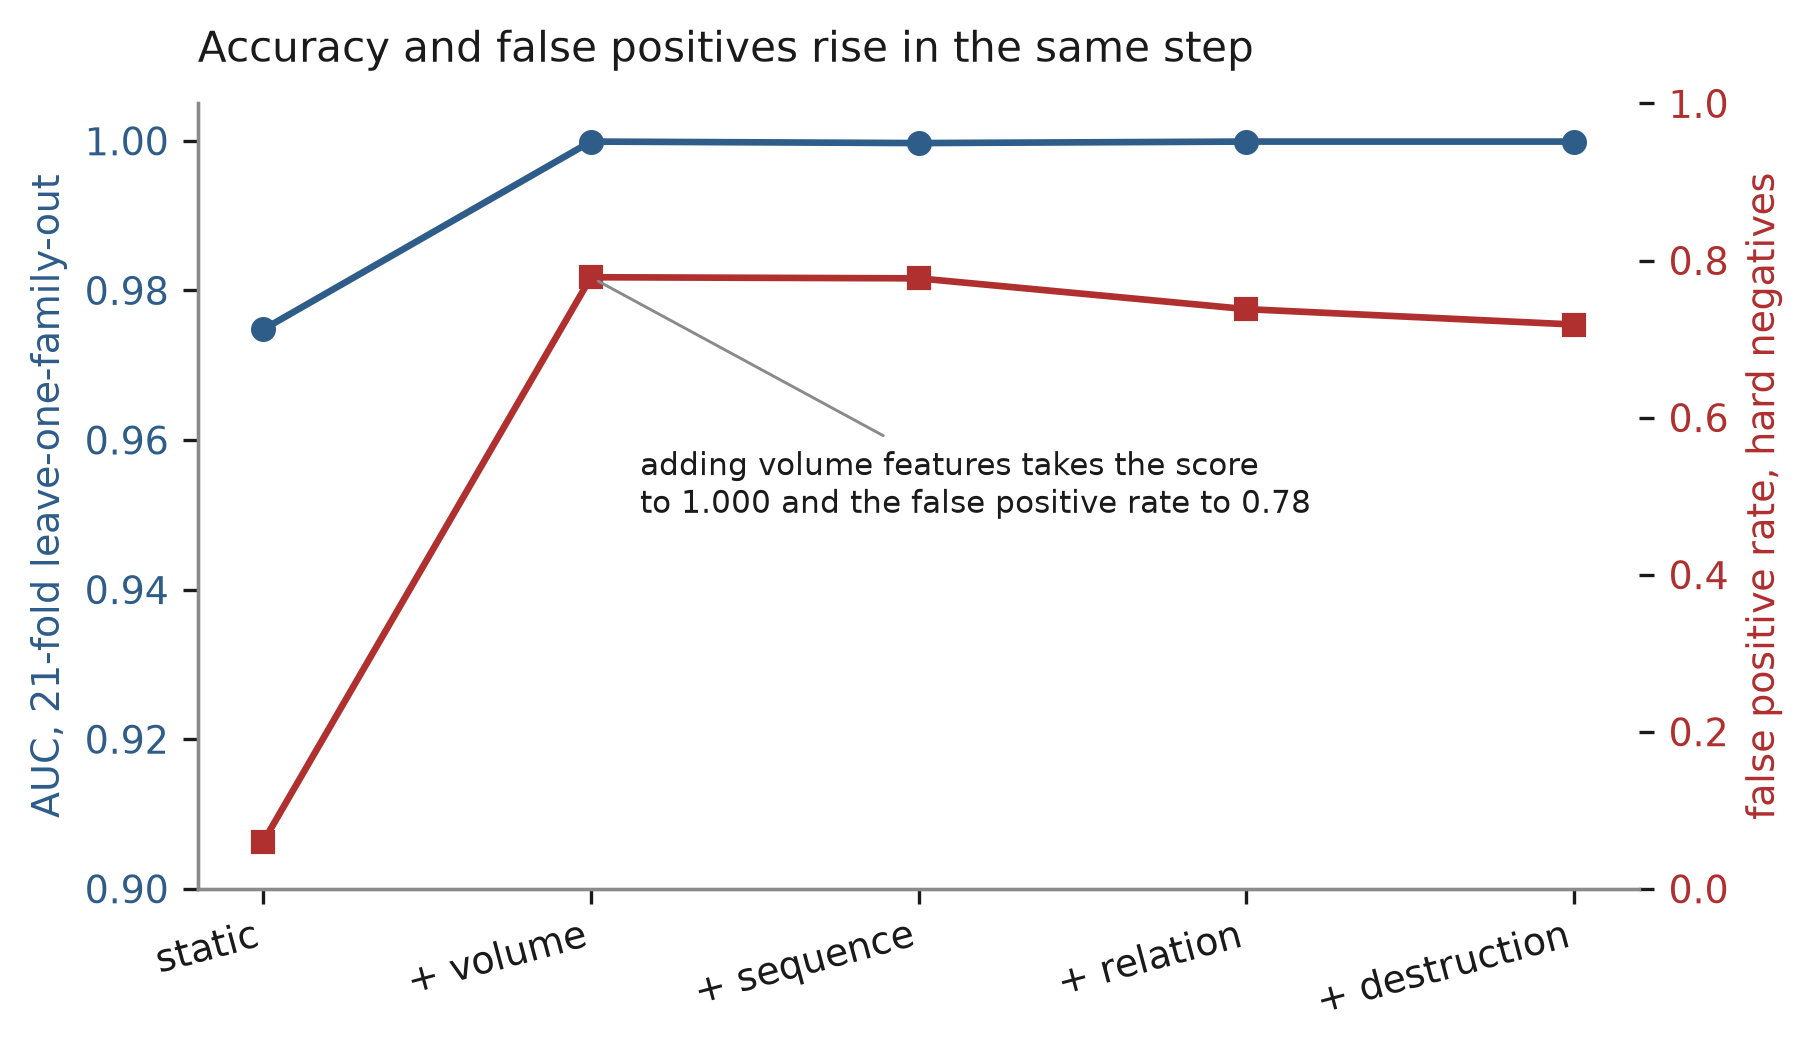
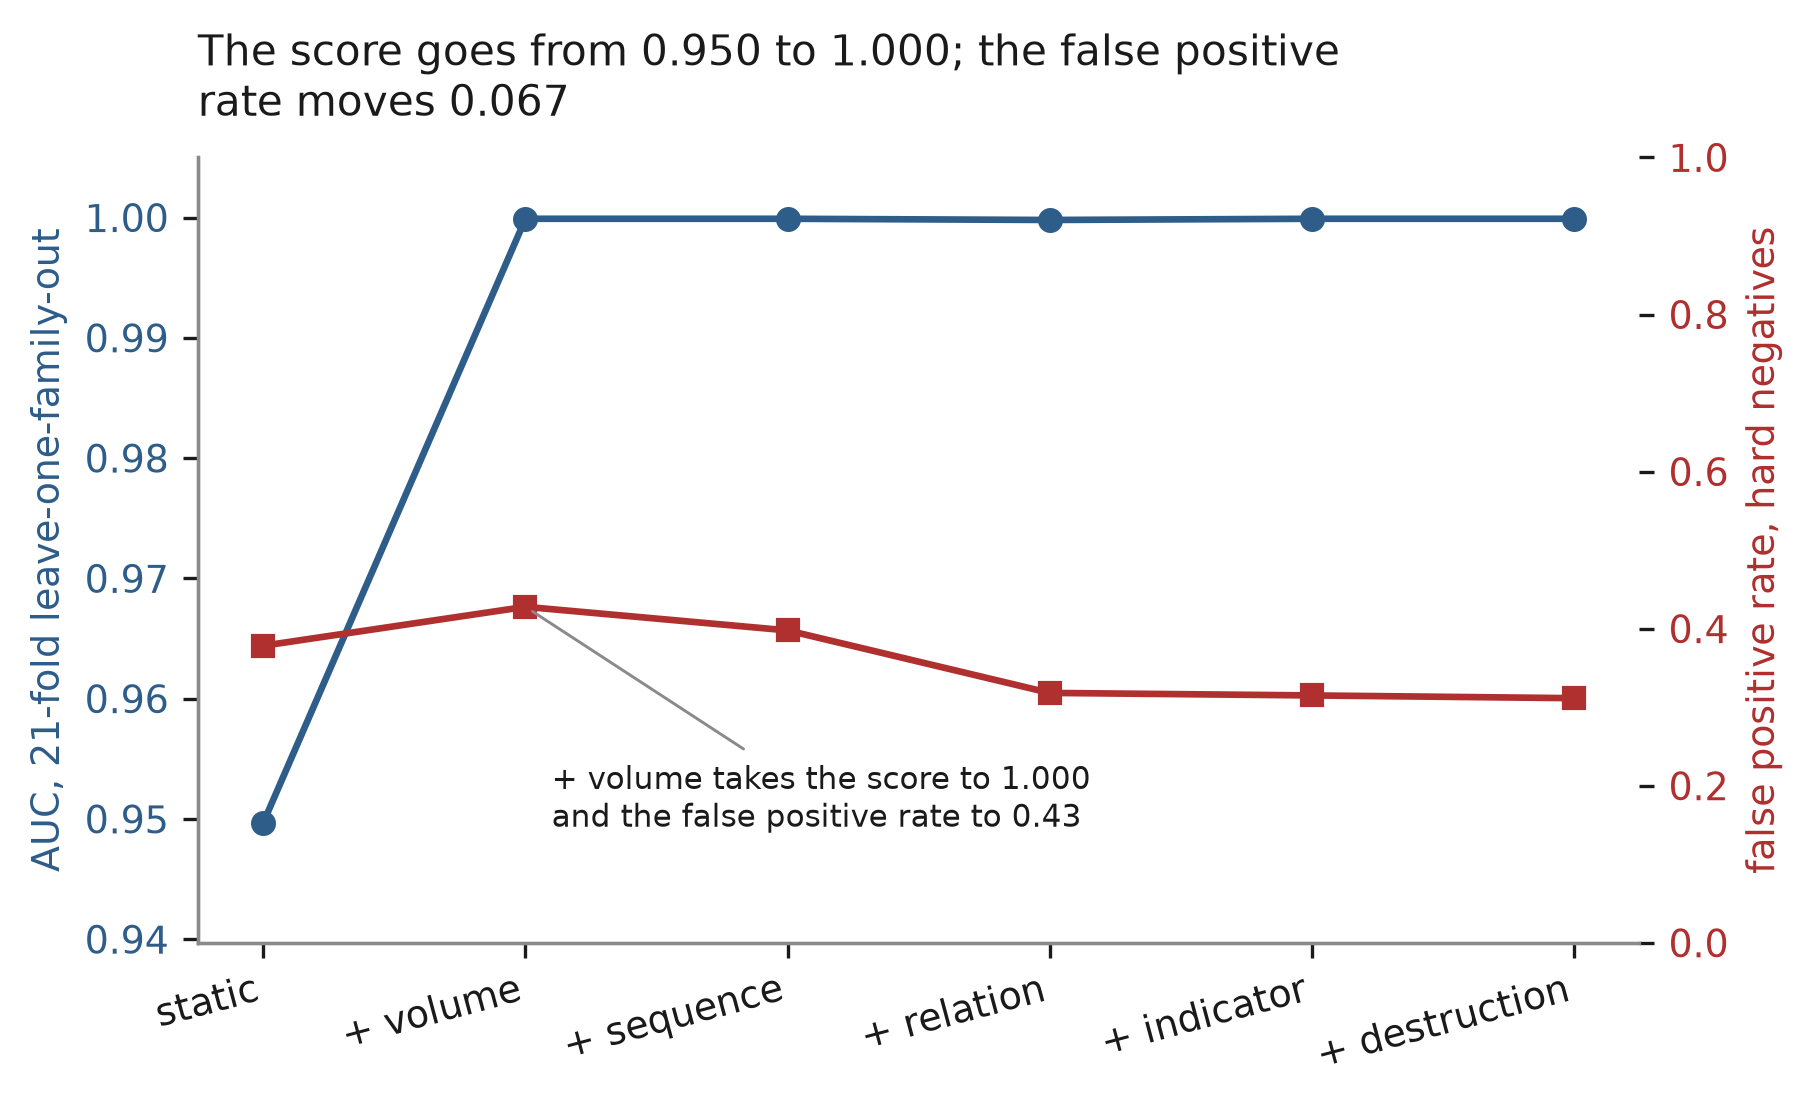
.

diff --git a/hardneg/build_shape_grid.py b/hardneg/build_shape_grid.py
@@ -107,7 +107,8 @@ def plan_main():
         for t in TIMINGS:
             for rep in range(5):
                 jobs.append(dict(tool="c", shape=sh, limit=200, order=0,
-                                 timing=t, effects=0, fake=0, rep=rep))
+                                 timing=t, effects=0, fake=0, rep=rep,
+                                 group="timing"))
 
     # Import table: the same subset with a ransomware-shaped import list
     for sh in SUBSET:
@@ -136,7 +137,10 @@ def name_of(j):
     parts = [f"x{j['tool']}", letter, f"l{j['limit']}"]
     if j["order"]:
         parts.append("rand")
-    if j["timing"]:
+    # The timing group carries TIMING=0 as its own baseline, and without a
+    # marker those twenty take the same name as the main grid and overwrite
+    # it -- 920 rows in the manifest, 900 files on disk.
+    if j.get("group") == "timing":
         parts.append(f"t{j['timing']}")
     if j["effects"]:
         parts.append(f"e{j['effects']}")
@@ -149,7 +153,8 @@ def name_of(j):
 def build_c(j, out, src):
     flags = [f"-DSHAPE={j['shape']}", f"-DLIMIT={j['limit']}",
              f"-DORDER={j['order']}", f"-DTIMING={j['timing']}",
-             f"-DEFFECTS={j['effects']}", f"-DFAKE_IMPORTS={j['fake']}"]
+             f"-DEFFECTS={j['effects']}", f"-DFAKE_IMPORTS={j['fake']}",
+             f"-DBUILD_REP={j['rep']}"]
     # The fake-import build references networking, shell and service APIs
     # that live outside the default link set, so those libraries have to be
     # named. They are only linked for that build: adding them everywhere
@@ -167,7 +172,7 @@ def build_go(j, out, srcdir):
     ld = " ".join(f"-X main.{k}={v}" for k, v in
                   (("shape", j["shape"]), ("limit", j["limit"]),
                    ("order", j["order"]), ("timing", j["timing"]),
-                   ("effects", j["effects"])))
+                   ("effects", j["effects"]), ("rep", j["rep"])))
     env = dict(os.environ, GOOS="windows", GOARCH="amd64", CGO_ENABLED="0")
     return subprocess.run(["go", "build", "-ldflags", ld, "-o", out, "."],
                           cwd=srcdir, capture_output=True, text=True, env=env)
@@ -177,7 +182,7 @@ def build_rust(j, out, srcdir):
     env = dict(os.environ,
                HN_SHAPE=str(j["shape"]), HN_LIMIT=str(j["limit"]),
                HN_ORDER=str(j["order"]), HN_TIMING=str(j["timing"]),
-               HN_EFFECTS=str(j["effects"]))
+               HN_EFFECTS=str(j["effects"]), HN_REP=str(j["rep"]))
     r = subprocess.run(["cargo", "build", "--release",
                         "--target", "x86_64-pc-windows-gnu"],
                        cwd=srcdir, capture_output=True, text=True, env=env)

diff --git a/hardneg/hardneg_matrix.c b/hardneg/hardneg_matrix.c
@@ -74,6 +74,14 @@
 #ifndef EFFECTS
 #define EFFECTS 0 /* bitmask: 1 note, 2 wallpaper, 4 shadow, 8 recovery, 16 service */
 #endif
+#ifndef BUILD_REP
+/* Repeats of the same parameters have to differ as files, or the compiler
+ * emits the identical binary six times and the pipeline -- which drops
+ * duplicate hashes -- keeps one of them. The repeats are wanted: they
+ * measure how much the sandbox itself varies between runs of the same
+ * program, which is the floor under any difference the grid shows. */
+#define BUILD_REP 0
+#endif
 #ifndef FAKE_IMPORTS
 /* Reference the API categories ransomware imports, without calling them for
  * any purpose. Every hard negative so far is a small C binary with about
@@ -354,8 +362,8 @@ static void pause_between(int index, int total)
 
 int main(void)
 {
-    say("matrix: shape=%d limit=%d order=%d timing=%d effects=%d fake=%d",
-        SHAPE, LIMIT, ORDER, TIMING, EFFECTS, FAKE_IMPORTS);
+    say("matrix: shape=%d limit=%d order=%d timing=%d effects=%d fake=%d rep=%d",
+        SHAPE, LIMIT, ORDER, TIMING, EFFECTS, FAKE_IMPORTS, BUILD_REP);
 #if FAKE_IMPORTS
     reference_only();
 #endif

diff --git a/hardneg/rust/build.rs b/hardneg/rust/build.rs
@@ -17,15 +17,19 @@ fn main() {
          const LIMIT: usize = {};\n\
          const ORDER: usize = {};\n\
          const TIMING: usize = {};\n\
-         const EFFECTS: usize = {};\n",
+         const EFFECTS: usize = {};\n\
+         #[allow(dead_code)]\n\
+         const BUILD_REP: usize = {};\n",
         get("HN_SHAPE", "1"),
         get("HN_LIMIT", "200"),
         get("HN_ORDER", "0"),
         get("HN_TIMING", "0"),
         get("HN_EFFECTS", "0"),
+        get("HN_REP", "0"),
     );
     fs::write(Path::new(&out).join("params.rs"), body).unwrap();
-    for k in ["HN_SHAPE", "HN_LIMIT", "HN_ORDER", "HN_TIMING", "HN_EFFECTS"] {
+    for k in ["HN_SHAPE", "HN_LIMIT", "HN_ORDER", "HN_TIMING", "HN_EFFECTS",
+              "HN_REP"] {
         println!("cargo:rerun-if-env-changed={}", k);
     }
 }

diff --git a/hardneg/go/hardneg_matrix.go b/hardneg/go/hardneg_matrix.go
@@ -46,6 +46,9 @@ var (
 	order   = "0"
 	timing  = "0"
 	effects = "0"
+	// Repeats of the same parameters must differ as files, or the linker
+	// emits the identical binary and the pipeline keeps one of them.
+	rep = "0"
 )
 
 const (
@@ -197,8 +200,8 @@ func atoi(s string) int {
 func main() {
 	sh, lim, ord, tim, eff := atoi(shape), atoi(limit), atoi(order),
 		atoi(timing), atoi(effects)
-	fmt.Printf("matrix(go): shape=%d limit=%d order=%d timing=%d effects=%d\n",
-		sh, lim, ord, tim, eff)
+	fmt.Printf("matrix(go): shape=%d limit=%d order=%d timing=%d effects=%d rep=%s\n",
+		sh, lim, ord, tim, eff, rep)
 	time.Sleep(3 * time.Second)
 
 	files, dirs := collect(4000)

diff --git a/hardneg/rust/src/main.rs b/hardneg/rust/src/main.rs
@@ -305,8 +305,8 @@ fn do_effects(dirs: &[PathBuf]) {
 
 fn main() {
     println!(
-        "matrix(rust): shape={} limit={} order={} timing={} effects={}",
-        SHAPE, LIMIT, ORDER, TIMING, EFFECTS
+        "matrix(rust): shape={} limit={} order={} timing={} effects={} rep={}",
+        SHAPE, LIMIT, ORDER, TIMING, EFFECTS, BUILD_REP
     );
     sleep(Duration::from_secs(3));
 
